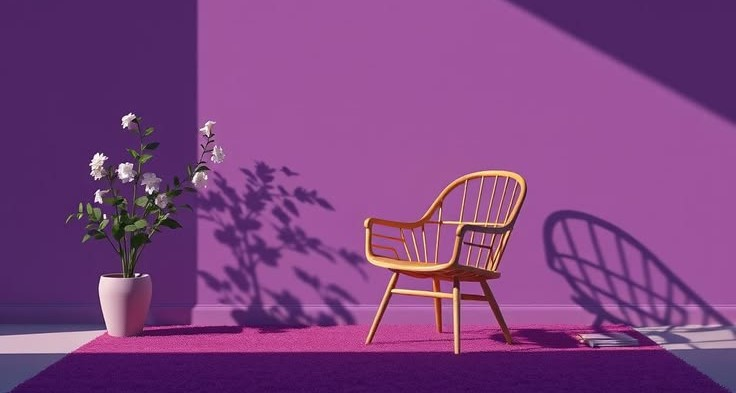
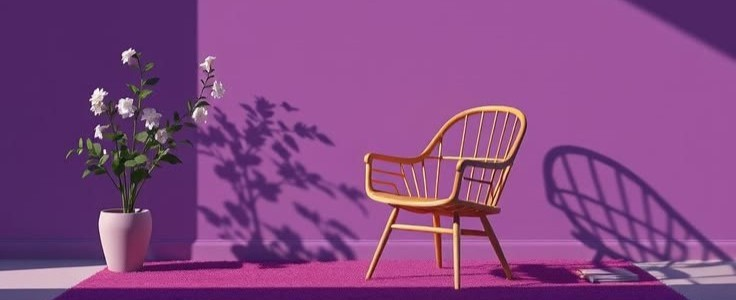
correction indexclient, header et searchbar

diff --git a/frontend/src/components/Header.css b/frontend/src/components/Header.css
@@ -2,7 +2,7 @@
     display: grid;
     grid-template-columns: 1fr 5fr 1fr;
     align-items: center;
-    border-bottom: 1px solid var(--border);
+    border-bottom: 10px solid var(--border);
 }
 
 .Bar {
@@ -13,7 +13,7 @@
     width: 100%;
     margin: 0;
     padding: 0;
-    padding-bottom: 20px;
+    padding-bottom: 0px;
     padding-top: 20px;
     border-right: 1px solid var(--border);
     border-left: 1px solid var(--border);
@@ -29,6 +29,13 @@
     width: 100%;
     max-width: 800px;
     border-bottom: 1px solid var(--border);
+}
+
+.navbar {
+    display : grid;
+    grid-template-columns: 1.5fr 1fr;
+    width: 100%;
+    padding-top: 20px;
 }
 
 .navbar ul {
@@ -50,7 +57,8 @@
 
 .logo {
   position: relative;
-  padding: 20px;
+  padding-right: 20px;
+  padding-left: 20px;
 
   .base,
   .framework,

diff --git a/frontend/src/pages/Client/IndexClient.css b/frontend/src/pages/Client/IndexClient.css
@@ -1,0 +1,12 @@
+.DisplayContainer {
+    display: flex;
+    justify-content: center;
+    align-items: center;
+    margin-bottom: 20px;
+    width: 100%;
+}
+
+.DisplayImg {
+    width: 100%;
+    height: auto;
+}

diff --git a/frontend/src/pages/Client/IndexClient.jsx b/frontend/src/pages/Client/IndexClient.jsx
@@ -4,9 +4,11 @@ import { useState } from 'react'
 import reactLogo from '/src/assets/react.svg'
 import viteLogo from '/src/assets/vite.svg'
 import heroImg from '/src/assets/hero.png'
+import displayImg from '/src/assets/purple_inside_house.jpg'
 
 //style
 import '/src/App.css'
+import './IndexClient.css'
 
 //component
 import Header from '/src/components/Header';
@@ -20,12 +22,9 @@ function IndexClient() {
   return (
     <>
       <Header />
-      <SearchBar />
       <section id="center">
-        <div className="hero">
-          <img src={heroImg} className="base" width="170" height="179" alt="" />
-          <img src={reactLogo} className="framework" alt="React logo" />
-          <img src={viteLogo} className="vite" alt="Vite logo" />
+        <div className="DisplayContainer">
+          <img src={displayImg} className="DisplayImg" alt="" />
         </div>
         <div>
           <h1>Accueil</h1>

diff --git a/frontend/src/components/SearchBar.css b/frontend/src/components/SearchBar.css
@@ -2,13 +2,10 @@
     display: flex;
     align-items: center;
     justify-content: center;
-    margin-bottom: 20px;
-    padding: 20px 0;
-    border: 1px solid var(--border);
 }
 
 .search-input {
-    width: 50%;
+    width: 70%;
     padding: 10px;
     border: 1px solid var(--border);
     border-radius: 4px;

diff --git a/frontend/src/components/Header.jsx b/frontend/src/components/Header.jsx
@@ -7,6 +7,8 @@ import reactLogo from '/src/assets/react.svg'
 import viteLogo from '/src/assets/vite.svg'
 import heroImg from '/src/assets/hero.png'
 
+import SearchBar from './SearchBar';
+
 //style
 import './Header.css'
   
@@ -25,6 +27,7 @@ function Header() {
                     <h1>Ymmo</h1>
                 </div>
                 <nav className="navbar">
+                    <SearchBar />
                     <ul>
                         <Link to="/">Accueil</Link>
                         <Link to="/EstateBoard">Catalogue</Link>